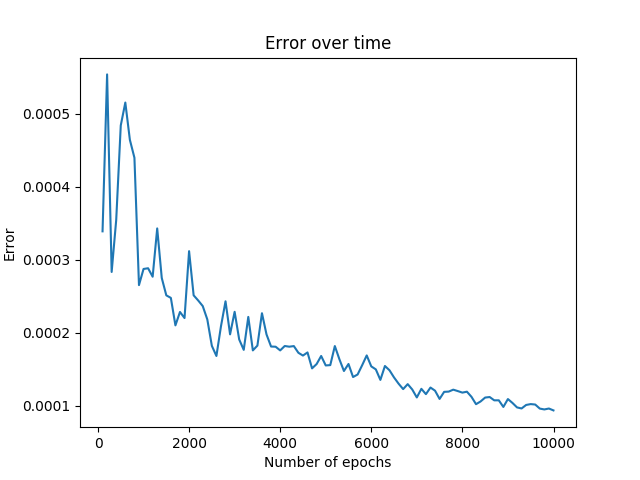
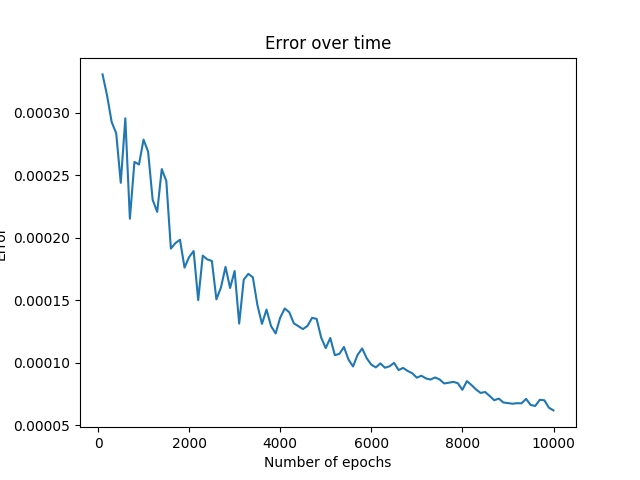
changed sigma value

diff --git a/hw3-4.py b/hw3-4.py
@@ -77,7 +77,7 @@ def error_graph(data_set):
 
 def get_dataset(file):
     """
-    Returns the normalized data data set of the speficied file
+    Returns the normalized data set of the speficied file
     """
     data = np.genfromtxt(file, delimiter=",", usecols=(0, 1, 2, 3))
     return np.apply_along_axis(lambda x: x/np.linalg.norm(x), 1, data)
@@ -88,7 +88,7 @@ test_dataset = get_dataset("data_sets/test.csv")
 validation_dataset = get_dataset("data_sets/validation.csv")
 
 # Creates SOM of 8x8 dimentions
-som = MiniSom(8, 8, 4, sigma=1.3, learning_rate=0.5)
+som = MiniSom(8, 8, 4, sigma=1.0, learning_rate=0.5)
 # Initializes the weights with info of the dataset
 som.pca_weights_init(train_dataset)
 
